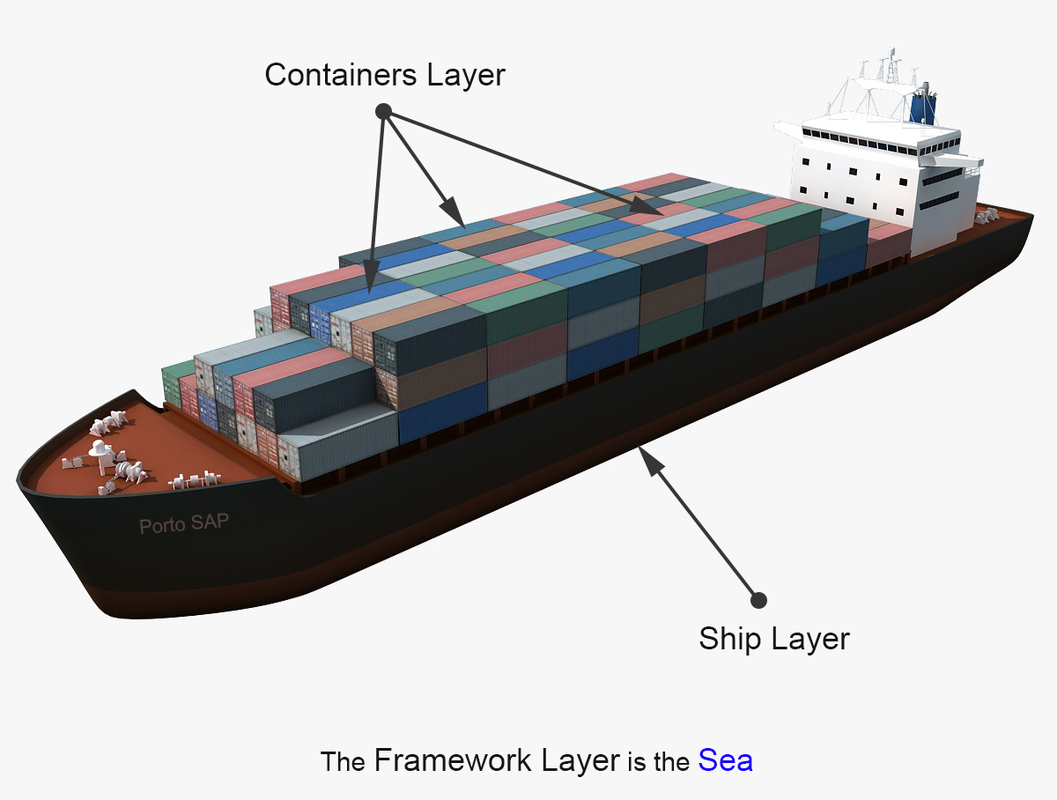
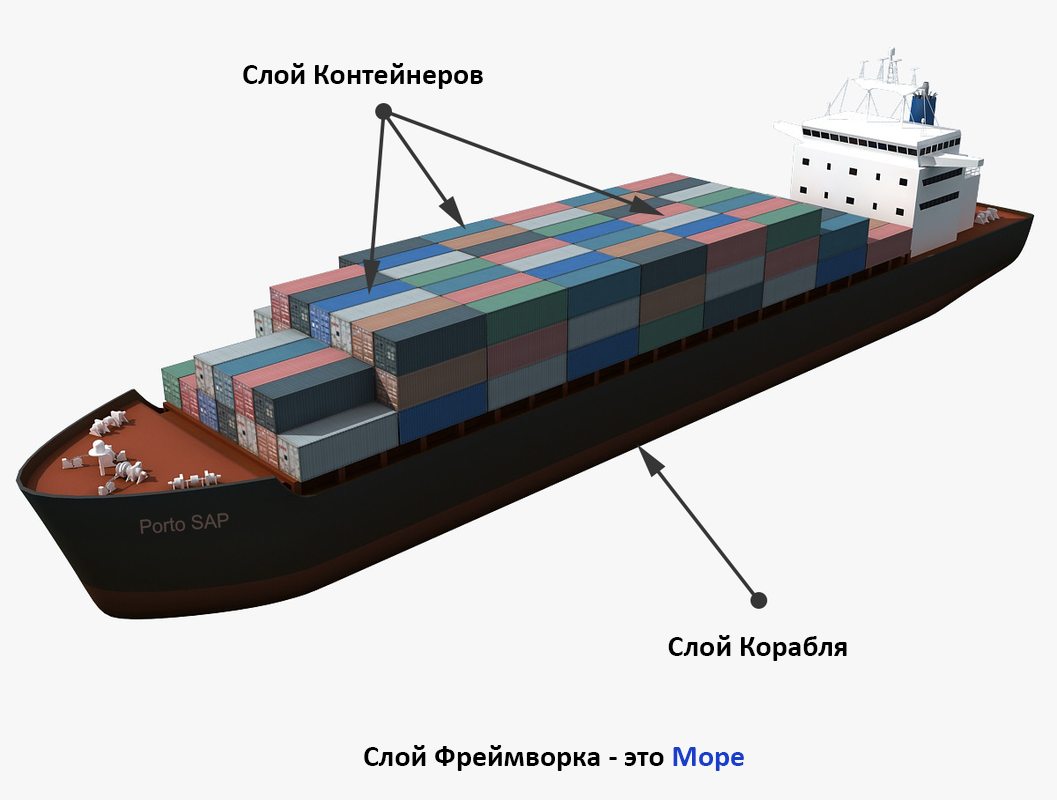
layers

Changed region(s): [[0.2185, 0.0625, 0.4683, 0.125], [0.281, 0.9375, 0.7181, 0.9688], [0.6244, 0.7812, 0.8117, 0.8438]]

diff --git a/README.md b/README.md
@@ -56,12 +56,13 @@ Porto - отличный вариант для средних и крупных 
 
 <br>
 
-It started as an experimental architecture, aiming at solving the common problems web developers face, when building large projects.
-
-*Feedbacks & Contributions are much appreciated.*
+Это начиналось как экспериментальная архитектура, направленная на решение общих проблем, с которыми сталкиваются веб-разработчики при создании крупных проектов.
 
 
-> "Simplicity is prerequisite for reliability.” — Edsger Dijkstra
+*Мы очень ценим отзывы и предложения.*
+
+
+> "Простота является необходимым условием надежности.” — Эдсгер Дейкстра
 
 
 
@@ -73,19 +74,19 @@ It started as an experimental architecture, aiming at solving the common problem
 
 
 <a id="Getting-Started"></a>
-# Getting Started
+# Приступая к работе
 
 
 
 
 <a id="Layers-Overview"></a>
-## Layers Overview
+## Обзор слоев
 
-At its core Porto consists of 2 layers "folders" `Containers` & `Ship`. 
+По своей сути Порто состоит из 2-х слоев "папок" `Контейнеры` & `Корабль`. 
 
-These layers can be created anywhere inside any framework of choice.
+Эти слои могут быть созданы в любом месте в любой выбранной структуре.
 
-*(Example: in Laravel or Rails they can be created in the `app/` directory or in a new `src/` directory at the root.)*
+*(Пример: в Laravel или Rails они могут быть созданы в `app/` директории или в новой `src/` директории в корне.)*
 
 
 
